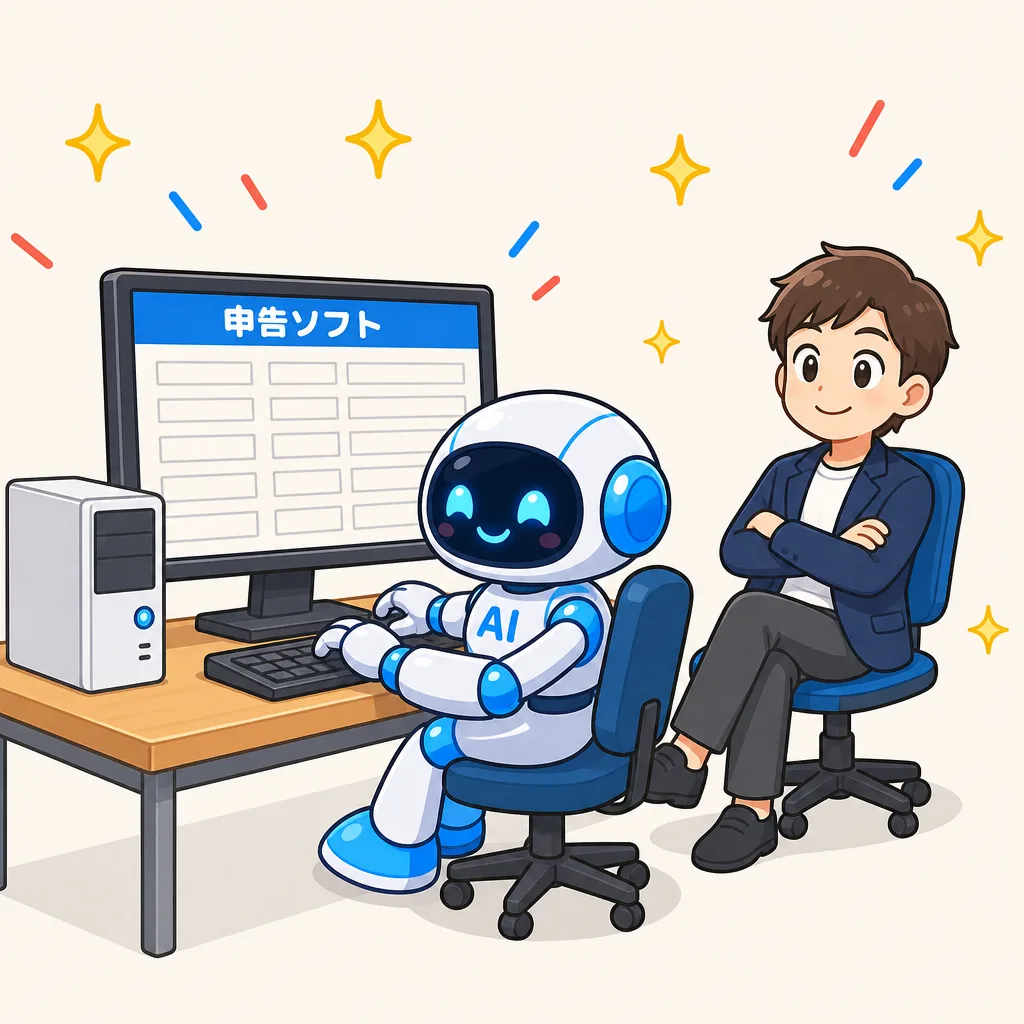
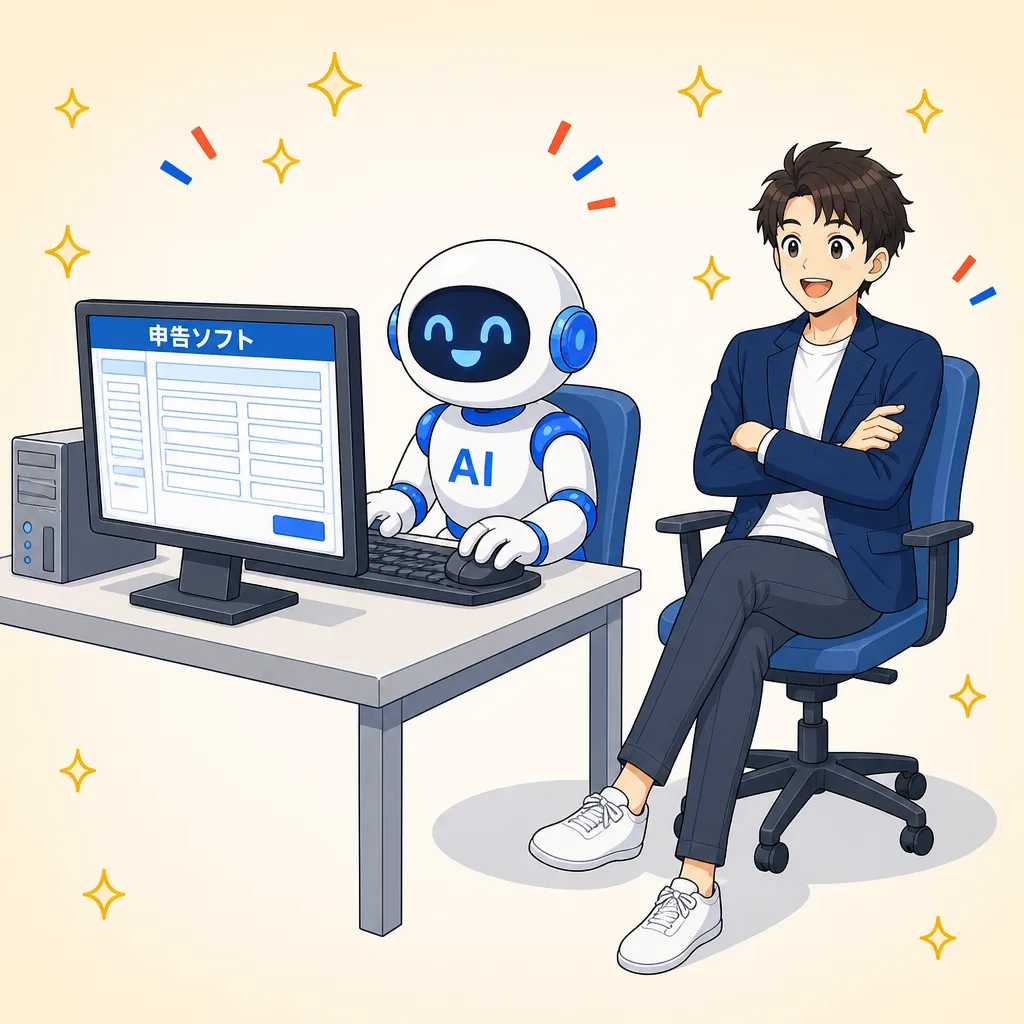
fix(update02): イラストの男性税理士を青年デザインに統一
nencho / jdl / log の3枚を hero と同じ人物デザイン（20代後半・7頭身）で
生成し直して差し替え。log には構図に税理士が入っていなかったため追加し、
alt文も合わせて更新。

diff --git a/hk-tax-school-v2-nd8uz3pg/update02.html b/hk-tax-school-v2-nd8uz3pg/update02.html
@@ -607,7 +607,7 @@
 
       <h3 style="margin:26px 0 8px;font-size:17px">🎁 おみやげ①：作業ログの見える化（みえるクラウドログ）</h3>
 
-      <img class="illus" src="img/update02/log.webp" alt="顧問先名がついた4つのタブが並んだブラウザの前で、ロボットがストップウォッチで時間を計り、棒グラフに集計しているイラスト" loading="lazy">
+      <img class="illus" src="img/update02/log.webp" alt="顧問先名がついた4つのタブが並んだブラウザを税理士が指さし、その前でロボットがストップウォッチで時間を計り、棒グラフに集計しているイラスト" loading="lazy">
       <p class="illus-cap">タブのタイトルを顧問先名で揃えるだけで、時間が自動で集まります</p>
       <p style="margin:0 0 10px">会場で見たのは、<b>スタッフがいま何の作業をしているかを、ブラウザの動きから自動で記録して見える化する</b>サービスです。仕組みはシンプルで、<b>自作できそうだと思いました</b>。</p>
 
